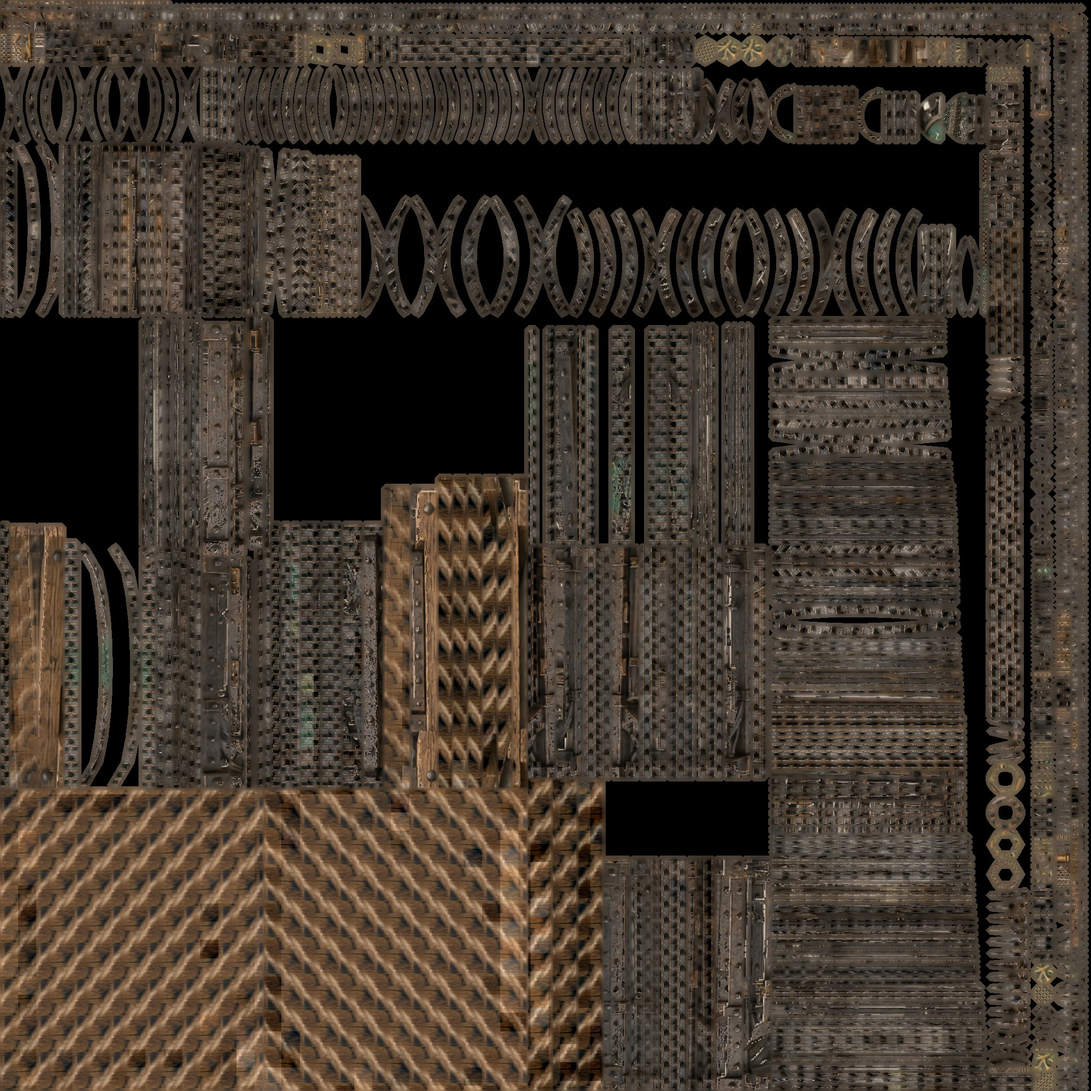
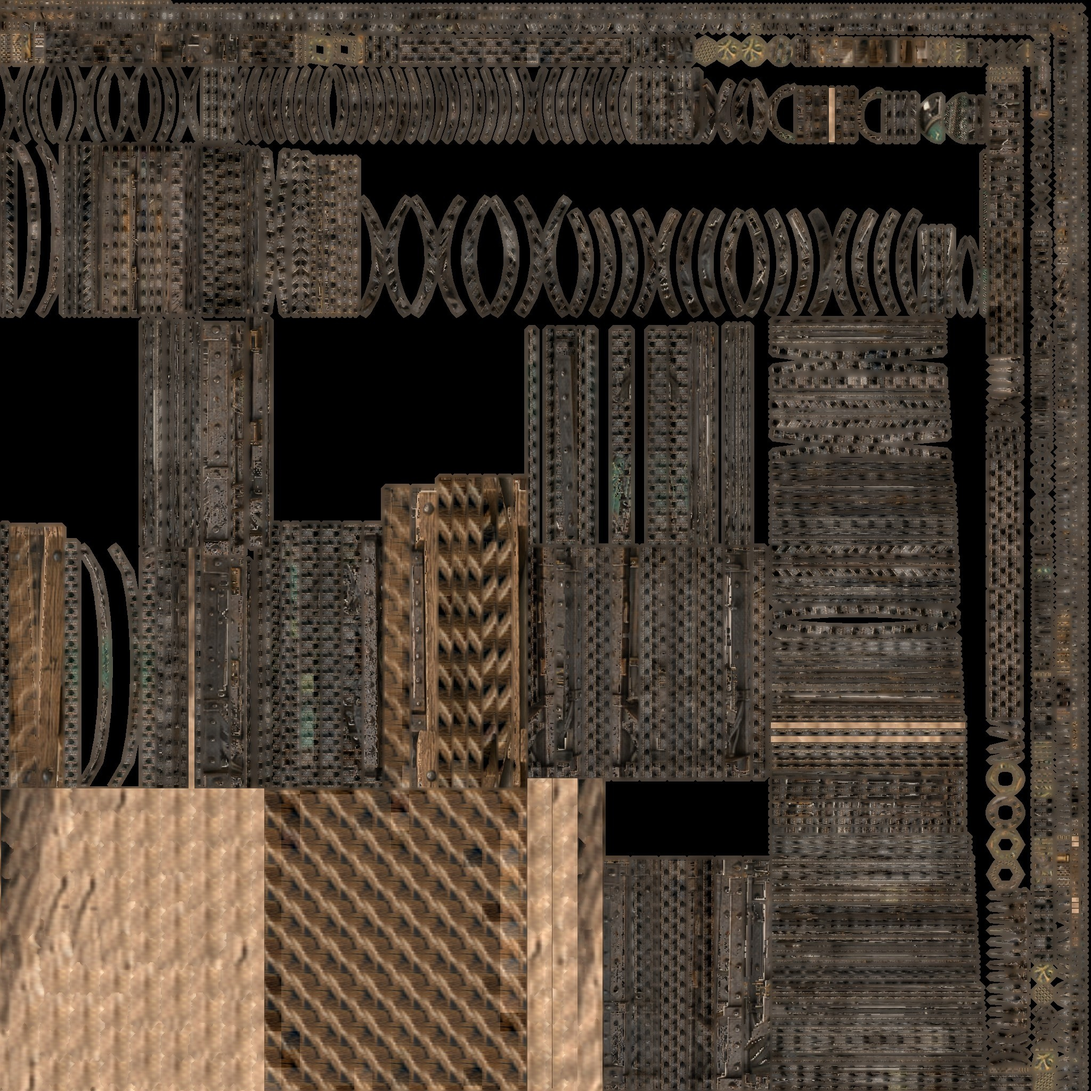
WIP: auto-checkpoint of agent progress
Claude-Session: https://claude.ai/code/session_01HwWPLNsZoT8MDs8G9gKuWc

diff --git a/forest_rescue/tools/fix_cage_top_textures.py b/forest_rescue/tools/fix_cage_top_textures.py
@@ -1,0 +1,330 @@
+#!/usr/bin/env python3
+"""Re-texture the faces the high city camera looks straight down at, on the cage atlases.
+
+The props v2 cages are textured by projecting the painting (art/cage_variants_gate_sockets.png);
+faces the painting sees only at grazing angles (cage floor, plinth / pallet tops, the root cage's
+roots seen from above) got the synthesised fill, which reads as diagonal stripes (iron), a blotchy
+"cauliflower" (root floor) and camouflage (roots) from the game camera. This tool rewrites only
+those texels of the existing atlases (LOD0/1/2) -- geometry, UVs, nodes, sockets and clips of the
+GLBs are untouched (the textures are external files next to the GLB):
+
+* top-facing faces (glTF normal y > 0.7) below the floor/plinth height: a floor texture quilted
+  (Efros-Freeman, min-error cuts) from the painted floor pixels of the OPEN view, rectified to a
+  top view, laid in cage space (x, z) at one texel density, planks parallel to the front face;
+* root cage roots (main + roof meshes above the floor): bark quilted from the painted root bark
+  (closed view), mapped per triangle along the local tube axis (smallest-eigenvalue direction of
+  the neighbouring normals) so the grain follows the root;
+* the painted low-frequency light of the old texels is kept as a gentle luminance modulation.
+
+    /opt/tools/blender-venv/bin/python forest_rescue/tools/fix_cage_top_textures.py [iron root oak]
+"""
+import json
+import os
+import struct
+import sys
+
+import cv2
+import numpy as np
+
+HERE = os.path.dirname(os.path.abspath(__file__))
+REPO = os.path.abspath(os.path.join(HERE, "..", ".."))
+PROPS = os.path.join(REPO, "godot", "project", "assets", "forest_rescue", "props")
+ART = os.path.join(REPO, "forest_rescue", "delivery", "art", "cage_variants_gate_sockets.png")
+BACKUP = os.path.join(REPO, "forest_rescue", "blender", "textures", "props", "v2", "pre_top_fix")
+
+# Painted floor (top surface) of each OPEN view, as a quad (x, y) in art pixels: back-left,
+# back-right, front-right, front-left; rectified to a top view of the given size in metres.
+FLOORS = {
+    "iron": {"quad": [(742, 680), (870, 677), (878, 699), (742, 700)], "metres": (3.3, 1.2), "ppm": 72},
+    "root": {"quad": [(1252, 685), (1333, 683), (1346, 707), (1243, 707)], "metres": (2.6, 1.0), "ppm": 64},
+    "oak": {"quad": [(208, 690), (372, 690), (392, 718), (190, 718)], "metres": (3.3, 1.3), "ppm": 70},
+}
+BARK_STRIPS = [(1223, 300, 1248, 385), (1091, 292, 1115, 360), (1409, 300, 1423, 350)]
+CAGES = {
+    "iron": {"id": "lf_cage_iron", "floor_max": 0.62},
+    "root": {"id": "lf_cage_root", "floor_max": 0.34, "bark": True},
+    "oak": {"id": "lf_cage_wood", "floor_max": 0.30},
+}
+COMPONENTS = {"SCALAR": 1, "VEC2": 2, "VEC3": 3, "VEC4": 4}
+DTYPES = {5120: np.int8, 5121: np.uint8, 5122: np.int16, 5123: np.uint16, 5125: np.uint32, 5126: np.float32}
+
+
+def read_glb(path):
+    data = open(path, "rb").read()
+    clen = struct.unpack("<I", data[12:16])[0]
+    js = json.loads(data[20:20 + clen])
+    off = 20 + clen
+    blen = struct.unpack("<I", data[off:off + 4])[0]
+    return js, data[off + 8:off + 8 + blen]
+
+
+def accessor(js, binary, index):
+    acc = js["accessors"][index]
+    view = js["bufferViews"][acc["bufferView"]]
+    comps = COMPONENTS[acc["type"]]
+    dtype = DTYPES[acc["componentType"]]
+    start = view.get("byteOffset", 0) + acc.get("byteOffset", 0)
+    stride = view.get("byteStride", 0)
+    item = np.dtype(dtype).itemsize * comps
+    count = acc["count"]
+    if stride and stride != item:
+        raw = np.frombuffer(binary, dtype=np.uint8, count=stride * (count - 1) + item, offset=start)
+        rows = np.lib.stride_tricks.as_strided(raw, shape=(count, item), strides=(stride, 1))
+        return np.frombuffer(rows.tobytes(), dtype=dtype).reshape(count, comps)
+    return np.frombuffer(binary, dtype=dtype, count=count * comps, offset=start).reshape(count, comps)
+
+
+def node_matrix(node):
+    m = np.eye(4)
+    if "matrix" in node:
+        return np.array(node["matrix"]).reshape(4, 4).T
+    t = node.get("translation", [0, 0, 0])
+    r = node.get("rotation", [0, 0, 0, 1])
+    s = node.get("scale", [1, 1, 1])
+    x, y, z, w = r
+    rot = np.array([[1 - 2 * (y * y + z * z), 2 * (x * y - z * w), 2 * (x * z + y * w)],
+                    [2 * (x * y + z * w), 1 - 2 * (x * x + z * z), 2 * (y * z - x * w)],
+                    [2 * (x * z - y * w), 2 * (y * z + x * w), 1 - 2 * (x * x + y * y)]])
+    m[:3, :3] = rot * np.array(s)
+    m[:3, 3] = t
+    return m
+
+
+def world_matrices(js):
+    out = {}
+
+    def walk(i, parent):
+        m = parent @ node_matrix(js["nodes"][i])
+        out[i] = m
+        for c in js["nodes"][i].get("children", []):
+            walk(c, m)
+    for r in js["scenes"][0]["nodes"]:
+        walk(r, np.eye(4))
+    return out
+
+
+def rectified(art, quad, metres, ppm):
+    w, h = int(metres[0] * ppm), int(metres[1] * ppm)
+    dst = np.float32([(0, 0), (w, 0), (w, h), (0, h)])
+    hmat = cv2.getPerspectiveTransform(np.float32(quad), dst)
+    return cv2.warpPerspective(art, hmat, (w, h), flags=cv2.INTER_CUBIC, borderMode=cv2.BORDER_REFLECT)
+
+
+def quilt(sample, out_h, out_w, block, overlap, rng):
+    """Efros-Freeman image quilting with minimum-error boundary cuts (vertical + horizontal)."""
+    sample = sample.astype(np.float32)
+    sh, sw = sample.shape[:2]
+    block = min(block, sh - 1, sw - 1)
+    overlap = min(overlap, block // 2)
+    step = block - overlap
+    rows = (out_h - overlap + step - 1) // step
+    cols = (out_w - overlap + step - 1) // step
+    out = np.zeros((rows * step + overlap, cols * step + overlap, 3), np.float32)
+    candidates = [(y, x) for y in range(0, sh - block, 2) for x in range(0, sw - block, 2)] or [(0, 0)]
+    for r in range(rows):
+        for c in range(cols):
+            y0, x0 = r * step, c * step
+            errs = []
+            for (sy, sx) in candidates:
+                patch = sample[sy:sy + block, sx:sx + block]
+                e = 0.0
+                if c > 0:
+                    e += np.sum((patch[:, :overlap] - out[y0:y0 + block, x0:x0 + overlap]) ** 2)
+                if r > 0:
+                    e += np.sum((patch[:overlap, :] - out[y0:y0 + overlap, x0:x0 + block]) ** 2)
+                errs.append(e)
+            errs = np.array(errs)
+            good = np.nonzero(errs <= errs.min() * 1.1 + 1e-6)[0]
+            sy, sx = candidates[int(rng.choice(good))]
+            patch = sample[sy:sy + block, sx:sx + block].copy()
+            mask = np.ones((block, block), bool)
+            if c > 0:
+                diff = np.sum((patch[:, :overlap] - out[y0:y0 + block, x0:x0 + overlap]) ** 2, axis=2)
+                cut = min_cut(diff)
+                for i in range(block):
+                    mask[i, :cut[i]] = False
+            if r > 0:
+                diff = np.sum((patch[:overlap, :] - out[y0:y0 + overlap, x0:x0 + block]) ** 2, axis=2).T
+                cut = min_cut(diff)
+                for j in range(block):
+                    mask[:cut[j], j] = False
+            region = out[y0:y0 + block, x0:x0 + block]
+            region[mask] = patch[mask]
+    return np.clip(out[:out_h, :out_w], 0, 255).astype(np.uint8)
+
+
+def min_cut(err):
+    """Column index per row of the minimum-error vertical path through err (rows x overlap)."""
+    h, w = err.shape
+    cost = err.copy()
+    for i in range(1, h):
+        for j in range(w):
+            lo, hi = max(0, j - 1), min(w, j + 2)
+            cost[i, j] += cost[i - 1, lo:hi].min()
+    path = np.zeros(h, int)
+    path[-1] = int(np.argmin(cost[-1]))
+    for i in range(h - 2, -1, -1):
+        j = path[i + 1]
+        lo, hi = max(0, j - 1), min(w, j + 2)
+        path[i] = lo + int(np.argmin(cost[i, lo:hi]))
+    return path
+
+
+def floor_texture(art, kind, rng):
+    spec = FLOORS[kind]
+    top = rectified(art, spec["quad"], spec["metres"], spec["ppm"])
+    # 2 x 2 m of floor per tile side ... quilted to 5 m so a whole cage floor is one coherent piece.
+    size = int(5.0 * spec["ppm"])
+    block = max(24, int(0.55 * spec["ppm"]))
+    return quilt(top, size, size, block, block // 4, rng), spec["ppm"]
+
+
+def bark_texture(art, rng, ppm=110):
+    strips = []
+    for (x0, y0, x1, y1) in BARK_STRIPS:
+        s = art[y0:y1, x0:x1]
+        strips.append(cv2.resize(s, (int((x1 - x0) * 1.8), int((y1 - y0) * 1.8)), interpolation=cv2.INTER_CUBIC))
+    hgt = min(s.shape[0] for s in strips)
+    sample = np.concatenate([s[:hgt] for s in strips], axis=1)
+    return quilt(sample, 384, 192, 28, 8, rng), ppm
+
+
+def raster_triangles(uv, faces, size):
+    """Yields (face index, ys, xs, barycentric (n x 3)) for texels covered by each UV triangle."""
+    for f, tri in enumerate(faces):
+        p = uv[tri] * size
+        x0, y0 = np.floor(p.min(axis=0)).astype(int) - 1
+        x1, y1 = np.ceil(p.max(axis=0)).astype(int) + 1
+        x0, y0 = max(x0, 0), max(y0, 0)
+        x1, y1 = min(x1, size - 1), min(y1, size - 1)
+        if x1 < x0 or y1 < y0:
+            continue
+        xs, ys = np.meshgrid(np.arange(x0, x1 + 1), np.arange(y0, y1 + 1))
+        px, py = xs + 0.5, ys + 0.5
+        (ax, ay), (bx, by), (cx, cy) = p
+        det = (by - cy) * (ax - cx) + (cx - bx) * (ay - cy)
+        if abs(det) < 1e-12:
+            continue
+        w0 = ((by - cy) * (px - cx) + (cx - bx) * (py - cy)) / det
+        w1 = ((cy - ay) * (px - cx) + (ax - cx) * (py - cy)) / det
+        w2 = 1.0 - w0 - w1
+        inside = (w0 >= -0.02) & (w1 >= -0.02) & (w2 >= -0.02)
+        if not inside.any():
+            continue
+        yield f, ys[inside], xs[inside], np.stack([w0[inside], w1[inside], w2[inside]], axis=1)
+
+
+def tube_axes(cent, normals, radius=0.14):
+    """Per triangle: the direction normals vary least along (root tube axis)."""
+    cell = radius
+    keys = np.floor(cent / cell).astype(np.int64)
+    buckets = {}
+    for i, k in enumerate(map(tuple, keys)):
+        buckets.setdefault(k, []).append(i)
+    axes = np.zeros_like(normals)
+    for i, k in enumerate(map(tuple, keys)):
+        near = []
+        for dx in (-1, 0, 1):
+            for dy in (-1, 0, 1):
+                for dz in (-1, 0, 1):
+                    near.extend(buckets.get((k[0] + dx, k[1] + dy, k[2] + dz), ()))
+        near = np.array(near)
+        near = near[np.linalg.norm(cent[near] - cent[i], axis=1) <= radius]
+        n = normals[near]
+        cov = n.T @ n
+        val, vec = np.linalg.eigh(cov)
+        axes[i] = vec[:, 0]
+    return axes
+
+
+def fix(kind, art, rng):
+    spec = CAGES[kind]
+    aid = spec["id"]
+    js, binary = read_glb(os.path.join(PROPS, aid + ".glb"))
+    worlds = world_matrices(js)
+    floor_tex, floor_ppm = floor_texture(art, kind, rng)
+    cv2.imwrite(os.path.join(BACKUP, f"{aid}_floor_quilt.png"), cv2.cvtColor(floor_tex, cv2.COLOR_RGB2BGR))
+    bark_tex, bark_ppm = (bark_texture(art, rng) if spec.get("bark") else (None, 0))
+    if bark_tex is not None:
+        cv2.imwrite(os.path.join(BACKUP, f"{aid}_bark_quilt.png"), cv2.cvtColor(bark_tex, cv2.COLOR_RGB2BGR))
+    files = [f"{aid}_c.jpg", f"{aid}_lod1_c.jpg", f"{aid}_lod2_c.jpg"]
+    stats = {}
+    for lod, fname in enumerate(files):
+        path = os.path.join(PROPS, fname)
+        backup = os.path.join(BACKUP, fname)
+        if not os.path.exists(backup):
+            cv2.imwrite(backup, cv2.imread(path), [cv2.IMWRITE_JPEG_QUALITY, 100])
+        atlas = cv2.cvtColor(cv2.imread(backup), cv2.COLOR_BGR2RGB)
+        size = atlas.shape[0]
+        lum = cv2.GaussianBlur(cv2.cvtColor(atlas, cv2.COLOR_RGB2GRAY).astype(np.float32), (0, 0), max(2.0, size / 256.0))
+        out = atlas.copy()
+        written = np.zeros(atlas.shape[:2], bool)
+        counts = {"floor": 0, "bark": 0}
+        for ni, node in enumerate(js["nodes"]):
+            name = node.get("name", "")
+            if "mesh" not in node or not name.endswith(f"_LOD{lod}"):
+                continue
+            part = name[len(aid) + 1:-5]
+            if part not in ("", "roof"):
+                continue                      # door / latch / socket plates keep their painting
+            mesh = js["meshes"][node["mesh"]]
+            m = worlds[ni]
+            for prim in mesh["primitives"]:
+                pos = accessor(js, binary, prim["attributes"]["POSITION"]).astype(np.float64)
+                uv = accessor(js, binary, prim["attributes"]["TEXCOORD_0"]).astype(np.float64)
+                faces = accessor(js, binary, prim["indices"]).reshape(-1, 3).astype(np.int64)
+                wp = pos @ m[:3, :3].T + m[:3, 3]
+                a, b, c = wp[faces[:, 0]], wp[faces[:, 1]], wp[faces[:, 2]]
+                nrm = np.cross(b - a, c - a)
+                nrm /= np.maximum(np.linalg.norm(nrm, axis=1, keepdims=True), 1e-9)
+                cent = (a + b + c) / 3.0
+                is_floor = (nrm[:, 1] > 0.7) & (cent[:, 1] < spec["floor_max"])
+                is_bark = np.zeros(len(faces), bool)
+                axes = None
+                if bark_tex is not None:
+                    is_bark = ~is_floor & (cent[:, 1] > spec["floor_max"] - 0.05)
+                    axes = tube_axes(cent, nrm)
+                for f, ys, xs, bary in raster_triangles(uv, faces, size):
+                    if not (is_floor[f] or is_bark[f]):
+                        continue
+                    p = bary @ wp[faces[f]]
+                    if is_floor[f]:
+                        u = np.mod((p[:, 0] + 2.5) * floor_ppm, floor_tex.shape[1] - 1).astype(int)
+                        v = np.mod((p[:, 2] + 2.5) * floor_ppm, floor_tex.shape[0] - 1).astype(int)
+                        col = floor_tex[v, u]
+                        counts["floor"] += len(ys)
+                    else:
+                        ax = axes[f]
+                        bx = np.cross(ax, nrm[f])
+                        bx /= max(np.linalg.norm(bx), 1e-9)
+                        s = p @ ax
+                        t = p @ bx
+                        u = np.mod(t * bark_ppm, bark_tex.shape[1] - 1).astype(int)
+                        v = np.mod(s * bark_ppm, bark_tex.shape[0] - 1).astype(int)
+                        col = bark_tex[v, u]
+                        counts["bark"] += len(ys)
+                    # Keep the painted low-frequency light (contact shadow under bars / roots).
+                    shade = np.clip(0.72 + 0.28 * lum[ys, xs] / max(float(np.mean(lum[ys, xs])), 1.0), 0.6, 1.2)
+                    out[ys, xs] = np.clip(col.astype(np.float32) * shade[:, None], 0, 255).astype(np.uint8)
+                    written[ys, xs] = True
+        # Bleed the rewritten texels 2 px into the UV gutter (mip safety), only onto old fill.
+        grown = out.copy()
+        mask = written.astype(np.uint8)
+        for _ in range(2):
+            dil = cv2.dilate(grown, np.ones((3, 3), np.uint8))
+            mdil = cv2.dilate(mask, np.ones((3, 3), np.uint8))
+            ring = (mdil > 0) & (mask == 0)
+            grown[ring] = dil[ring]
+            mask = mdil
+        q = 90 if lod == 0 else 88
+        cv2.imwrite(path, cv2.cvtColor(grown, cv2.COLOR_RGB2BGR), [cv2.IMWRITE_JPEG_QUALITY, q])
+        stats[fname] = counts
+    print(kind, stats)
+
+
+if __name__ == "__main__":
+    os.makedirs(BACKUP, exist_ok=True)
+    art = cv2.cvtColor(cv2.imread(ART), cv2.COLOR_BGR2RGB)
+    rng = np.random.default_rng(7)
+    for kind in (sys.argv[1:] or ["iron", "root"]):
+        fix(kind, art, rng)
